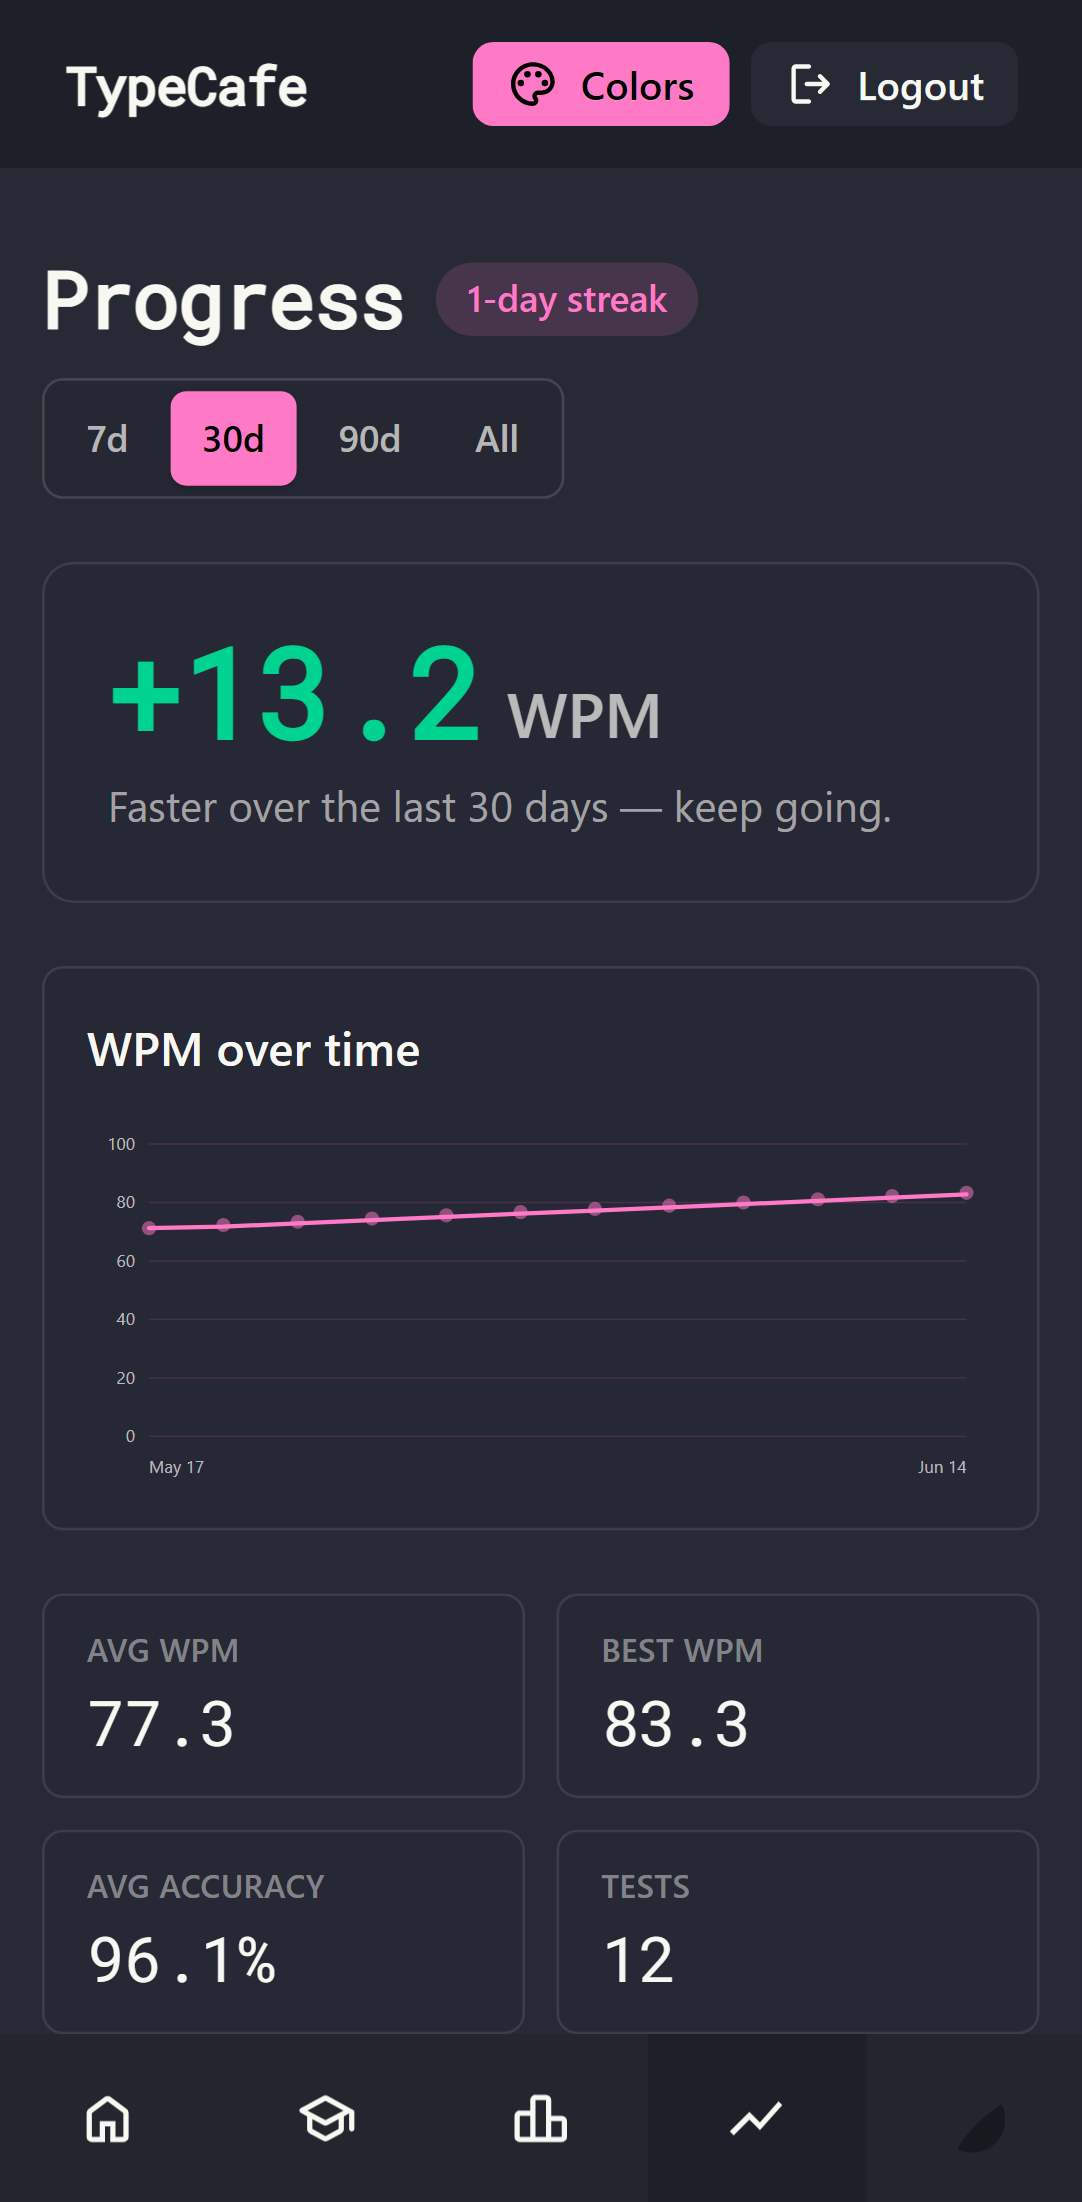
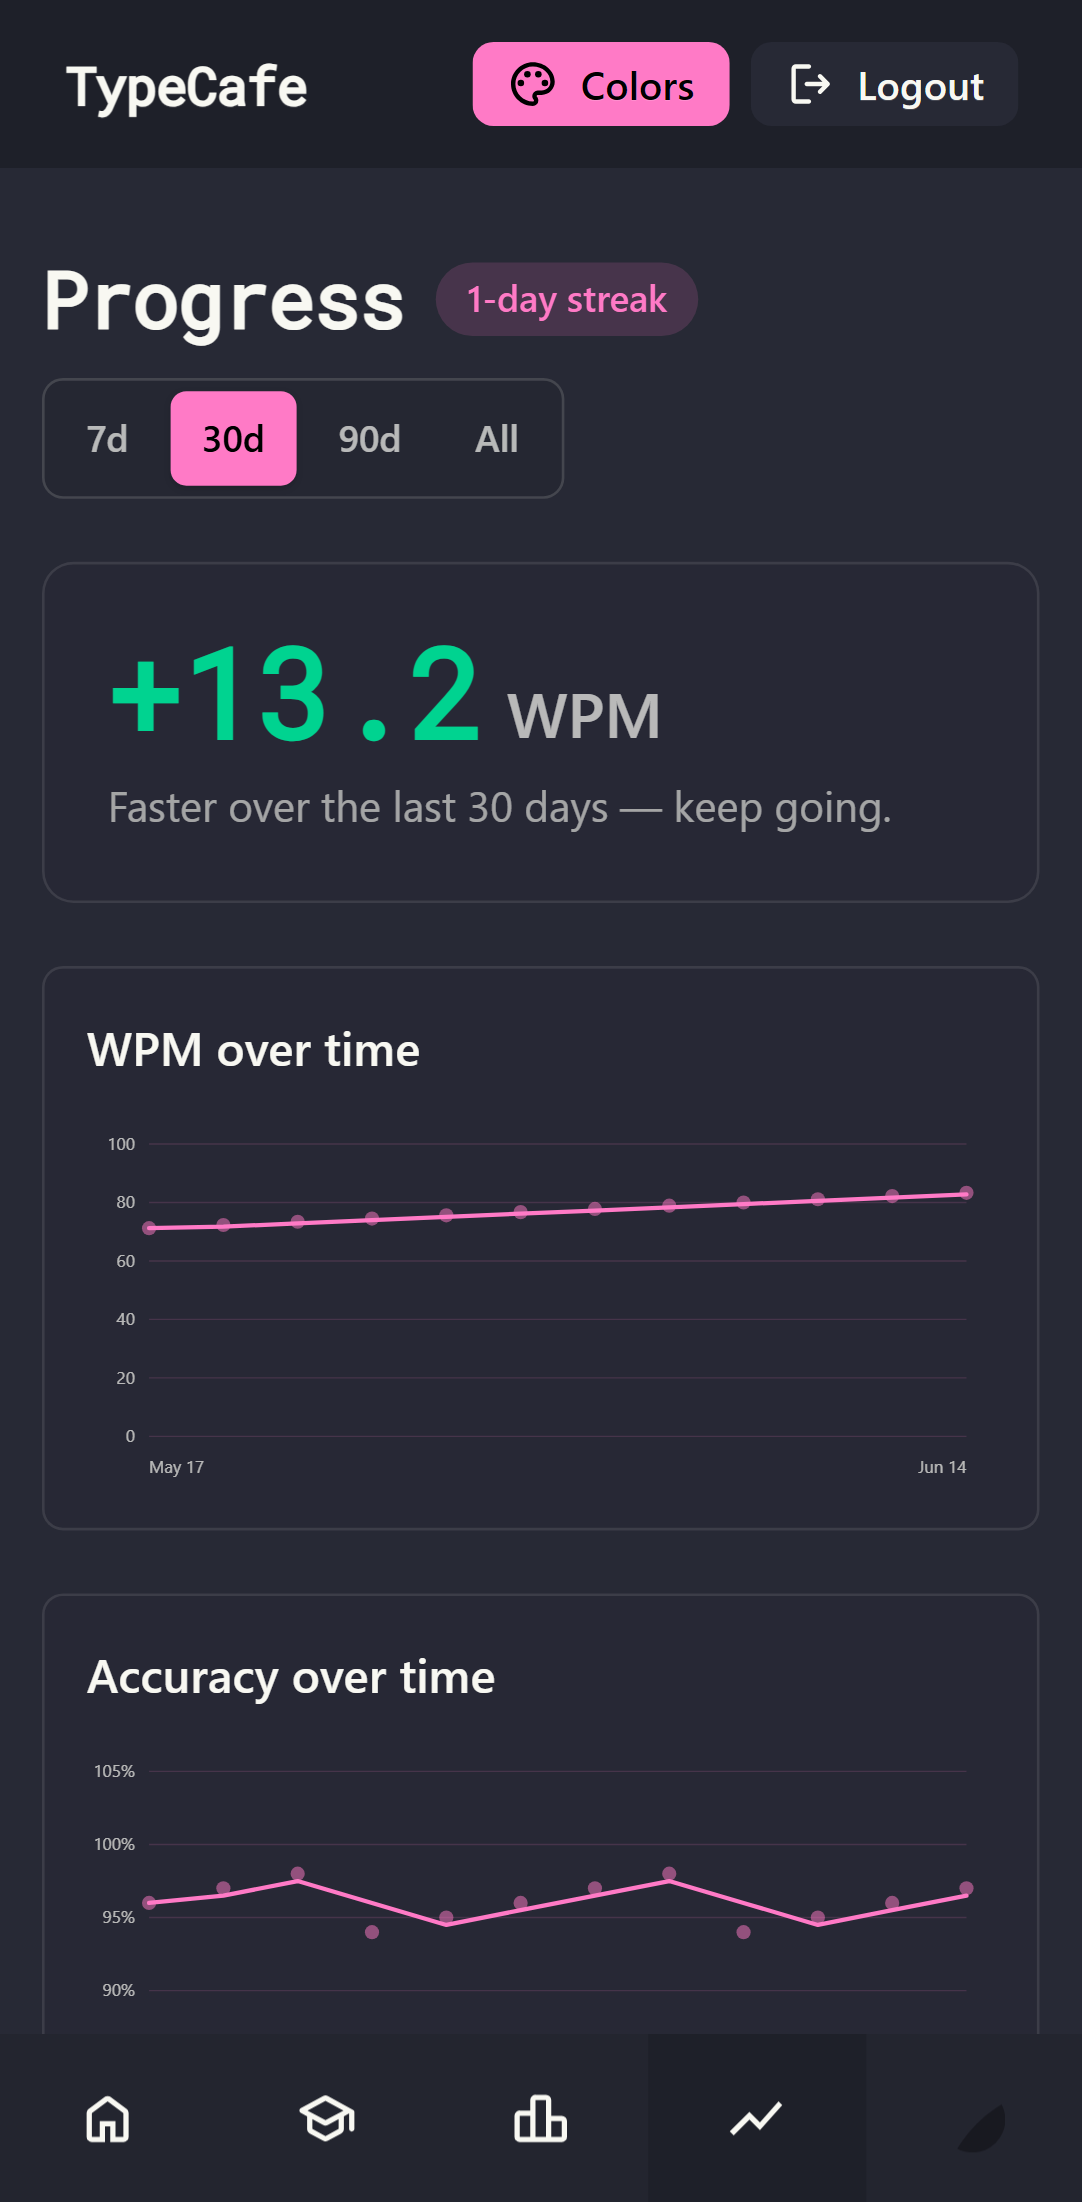
feat(progress): add records timeline and accuracy trend (phase-3 §3.1)
- personalRecords in src/lib/progress.ts (4 unit tests) — PB milestones as dated
  events, "first 80+ WPM" when a PB crosses a round number else a plain best.
  Rendered as a newest-first Records list on /progress.
- TrendChart generalized to plot any series with a "zero" (WPM) or "fit"
  (accuracy, zoomed to the data range, capped at 100%) baseline. The page now
  shows both a WPM and an Accuracy trend.

ponytail: fit baseline uses a fixed 5-unit tick (only accuracy uses it).

Verified: vitest 151 passed; tsc clean; progress e2e 5 passed.

diff --git a/src/components/progress/TrendChart.tsx b/src/components/progress/TrendChart.tsx
@@ -2,14 +2,19 @@ import { useId, useMemo } from "react"
 import type { TrendPoint } from "~/lib/progress"
 
 interface TrendChartProps {
+    // X source — only `t` is read (createdAt ms); aligned 1:1 with values/rolling.
     points: TrendPoint[]
-    // Rolling-average line aligned 1:1 with `points` (from trendSeries).
-    rollingWpm: number[]
-    // Accessible/visible title for the chart.
+    values: number[]
+    // Rolling-average line aligned 1:1 with `points`.
+    rolling: number[]
     title: string
+    // "zero" anchors the y-axis at 0 (WPM); "fit" zooms to the data range
+    // (accuracy, which clusters near the top and would look flat from 0).
+    baseline?: "zero" | "fit"
+    valueSuffix?: string
 }
 
-// Pick a "nice" y-axis tick interval so the gridlines land on round WPM values.
+// Pick a "nice" y-axis tick interval so the gridlines land on round values.
 function chooseTickInterval(maxValue: number): number {
     if (maxValue <= 50) return 10
     if (maxValue <= 120) return 20
@@ -21,12 +26,13 @@ function formatDate(t: number): string {
     return new Date(t).toLocaleDateString(undefined, { month: "short", day: "numeric" })
 }
 
-// Per-test WPM scatter with a rolling-average line over it — the chart that
-// proves "am I getting faster?" (Phase 3 §3.1.2). Pure presentation over the
-// payload from src/lib/progress.ts; renders sanely for 1, 10, or 1,000 points.
+// Per-test scatter with a rolling-average line — the chart that proves "am I
+// getting faster?" (§3.1.2). Pure presentation; renders for 1, 10, or 1,000 points.
 export function TrendChart(props: TrendChartProps) {
     const titleId = useId()
     const descId = useId()
+    const baseline = props.baseline ?? "zero"
+    const suffix = props.valueSuffix ?? ""
 
     const layout = useMemo(() => {
         const width = 640
@@ -35,14 +41,18 @@ export function TrendChart(props: TrendChartProps) {
         const chartWidth = width - padding.left - padding.right
         const chartHeight = height - padding.top - padding.bottom
 
-        const wpms = props.points.map((p) => p.wpm)
-        const maxValue = Math.max(...wpms, ...props.rollingWpm, 40)
-        const tick = chooseTickInterval(maxValue)
-        const maxY = Math.ceil(maxValue / tick) * tick
-        const yTicks = Array.from({ length: Math.floor(maxY / tick) + 1 }, (_, i) => i * tick)
+        const all = [...props.values, ...props.rolling]
+        const dataMax = Math.max(...all, baseline === "zero" ? 40 : -Infinity)
+        const dataMin = Math.min(...all, Infinity)
 
-        // X by real time when the points span an interval; a single point (or an
-        // all-same-instant burst) centres instead of dividing by zero.
+        // ponytail: fit uses a fixed tick of 5 — only accuracy (a %) uses it; widen
+        // if a non-percentage fit series ever needs it.
+        const tick = baseline === "zero" ? chooseTickInterval(dataMax) : 5
+        const minY = baseline === "zero" ? 0 : Math.max(0, Math.floor((dataMin - tick) / tick) * tick)
+        const rawMaxY = Math.ceil((dataMax + (baseline === "zero" ? 0 : tick)) / tick) * tick
+        const maxY = suffix === "%" ? Math.min(rawMaxY, 100) : rawMaxY // a percentage can't exceed 100
+        const yTicks = Array.from({ length: Math.floor((maxY - minY) / tick) + 1 }, (_, i) => minY + i * tick)
+
         const minT = props.points.length > 0 ? props.points[0]!.t : 0
         const maxT = props.points.length > 0 ? props.points[props.points.length - 1]!.t : 0
         const tSpan = maxT - minT
@@ -51,20 +61,11 @@ export function TrendChart(props: TrendChartProps) {
             if (tSpan <= 0) return padding.left + (index / (props.points.length - 1)) * chartWidth
             return padding.left + ((point.t - minT) / tSpan) * chartWidth
         }
-        const yFor = (value: number) => padding.top + chartHeight - (value / maxY) * chartHeight
+        const yFor = (value: number) => padding.top + chartHeight - ((value - minY) / (maxY - minY)) * chartHeight
 
-        const scatter = props.points.map((point, index) => ({
-            x: xFor(point, index),
-            y: yFor(point.wpm),
-            wpm: point.wpm,
-        }))
-        const linePoints = props.points.map((point, index) => ({
-            x: xFor(point, index),
-            y: yFor(props.rollingWpm[index] ?? point.wpm),
-        }))
-        const linePath = linePoints
-            .map((p, i) => `${i === 0 ? "M" : "L"} ${p.x.toFixed(1)} ${p.y.toFixed(1)}`)
-            .join(" ")
+        const scatter = props.points.map((point, index) => ({ x: xFor(point, index), y: yFor(props.values[index] ?? 0) }))
+        const linePoints = props.points.map((point, index) => ({ x: xFor(point, index), y: yFor(props.rolling[index] ?? props.values[index] ?? 0) }))
+        const linePath = linePoints.map((p, i) => `${i === 0 ? "M" : "L"} ${p.x.toFixed(1)} ${p.y.toFixed(1)}`).join(" ")
 
         const xLabels = props.points.length === 1
             ? [{ x: padding.left + chartWidth / 2, label: formatDate(minT) }]
@@ -73,10 +74,11 @@ export function TrendChart(props: TrendChartProps) {
                 { x: padding.left + chartWidth, label: formatDate(maxT) },
             ]
 
-        return { width, height, padding, chartWidth, chartHeight, maxY, yTicks, scatter, linePath, xLabels, minT, maxT }
-    }, [props.points, props.rollingWpm])
+        return { width, height, padding, chartWidth, chartHeight, minY, maxY, yTicks, scatter, linePath, xLabels }
+    }, [props.points, props.values, props.rolling, baseline, suffix])
 
     const pointRadius = props.points.length > 120 ? 2 : props.points.length > 40 ? 3 : 5
+    const yFor = (value: number) => layout.padding.top + layout.chartHeight - ((value - layout.minY) / (layout.maxY - layout.minY)) * layout.chartHeight
 
     return (
         <div className="rounded-lg border border-base-content/10 bg-base-100/45 p-4">
@@ -89,14 +91,14 @@ export function TrendChart(props: TrendChartProps) {
                 data-testid="trend-chart"
             >
                 <desc id={descId}>
-                    WPM trend over {props.points.length} {props.points.length === 1 ? "test" : "tests"}.
+                    {props.title} over {props.points.length} {props.points.length === 1 ? "test" : "tests"}.
                 </desc>
                 {layout.yTicks.map((value) => {
-                    const y = layout.padding.top + layout.chartHeight - (value / layout.maxY) * layout.chartHeight
+                    const y = yFor(value)
                     return (
                         <g key={value}>
                             <line x1={layout.padding.left} x2={layout.padding.left + layout.chartWidth} y1={y} y2={y} stroke="currentColor" opacity="0.14" />
-                            <text x={layout.padding.left - 10} y={y + 4} textAnchor="end" className="fill-base-content text-xs" opacity="0.7">{value}</text>
+                            <text x={layout.padding.left - 10} y={y + 4} textAnchor="end" className="fill-base-content text-xs" opacity="0.7">{value}{suffix}</text>
                         </g>
                     )
                 })}

diff --git a/src/lib/progress.ts b/src/lib/progress.ts
@@ -295,6 +295,44 @@ export function dailyRollups(records: ProgressRecord[], utcOffsetMinutes = 0): D
         .sort((a, b) => (a.day < b.day ? -1 : a.day > b.day ? 1 : 0))
 }
 
+// ---------------------------------------------------------------------------
+// Records timeline — personal bests as dated events (§3.1.6)
+// ---------------------------------------------------------------------------
+
+// Round WPM milestones worth calling out as "first 80+ WPM" events.
+export const RECORD_THRESHOLDS = [40, 50, 60, 70, 80, 90, 100, 110, 120, 130, 140, 150]
+
+export interface RecordEvent {
+    t: number // epoch ms of the test that set the record
+    wpm: number
+    // "threshold" when this PB also crossed a new round number (the braggier
+    // framing); "best" otherwise.
+    kind: "best" | "threshold"
+    threshold?: number
+}
+
+// Personal-best milestones over the history, newest first. Walks oldest→newest
+// emitting one event per test that beats every test before it; if that test also
+// crossed a new round-number threshold, the event is framed as "first N+ WPM".
+export function personalRecords(records: ProgressRecord[], thresholds: number[] = RECORD_THRESHOLDS): RecordEvent[] {
+    const sorted = [...records].sort((a, b) => a.createdAt.getTime() - b.createdAt.getTime())
+    const events: RecordEvent[] = []
+    let max = -Infinity
+    for (const record of sorted) {
+        if (record.wpm <= max) continue
+        const crossed = thresholds.filter((th) => th > max && th <= record.wpm)
+        const highest = crossed.length > 0 ? Math.max(...crossed) : undefined
+        events.push({
+            t: record.createdAt.getTime(),
+            wpm: record.wpm,
+            kind: highest !== undefined ? "threshold" : "best",
+            threshold: highest,
+        })
+        max = record.wpm
+    }
+    return events.reverse()
+}
+
 // Consecutive-day practice streak ending today (Phase 3 §3.2), computed on read
 // from the records — no jobs, no stored counter. Today not yet practised doesn't
 // break the streak as long as yesterday was (the day isn't over).

diff --git a/src/lib/progress.test.ts b/src/lib/progress.test.ts
@@ -12,6 +12,7 @@ import {
     filterByPeriod,
     headlineDelta,
     periodStart,
+    personalRecords,
     rollingAverage,
     trendSeries,
     type ProgressRecord,
@@ -272,6 +273,35 @@ describe("dailyRollups", () => {
 
     it("returns an empty array for no records", () => {
         expect(dailyRollups([])).toEqual([])
+    })
+})
+
+describe("personalRecords", () => {
+    it("emits one event per new personal best, newest first", () => {
+        // 60 (PB), 58 (no), 72 (PB), 70 (no), 85 (PB)
+        const recs = [rec(40, 60), rec(35, 58), rec(30, 72), rec(20, 70), rec(5, 85)]
+        const events = personalRecords(recs)
+        expect(events.map((e) => e.wpm)).toEqual([85, 72, 60])
+        // Newest first.
+        expect(events[0]!.t).toBeGreaterThan(events[1]!.t)
+    })
+
+    it("frames a PB that crosses a round number as a threshold event", () => {
+        const events = personalRecords([rec(10, 62), rec(5, 81)])
+        expect(events[0]).toMatchObject({ wpm: 81, kind: "threshold", threshold: 80 })
+        // First test (62) crossed 40/50/60 → highest 60.
+        expect(events[1]).toMatchObject({ wpm: 62, kind: "threshold", threshold: 60 })
+    })
+
+    it("labels a PB that crosses no new threshold as a plain best", () => {
+        // 82 then 87: 87 beats 82 but crosses no new round number (80 already done).
+        const events = personalRecords([rec(10, 82), rec(5, 87)])
+        expect(events[0]).toMatchObject({ wpm: 87, kind: "best" })
+        expect(events[0]!.threshold).toBeUndefined()
+    })
+
+    it("returns an empty list for no records", () => {
+        expect(personalRecords([])).toEqual([])
     })
 })
 

diff --git a/src/pages/progress.tsx b/src/pages/progress.tsx
@@ -13,6 +13,8 @@ import {
     currentStreak,
     filterByPeriod,
     headlineDelta,
+    personalRecords,
+    rollingAverage,
     trendSeries,
     type ProgressPeriod,
     type ProgressRecord,
@@ -49,6 +51,11 @@ const ProgressDashboard = (props: { records: ProgressRecord[] }) => {
     const delta = useMemo(() => headlineDelta(props.records, period, now), [props.records, period, now]);
     const series = useMemo(() => trendSeries(props.records, period, now), [props.records, period, now]);
     const inPeriod = useMemo(() => filterByPeriod(props.records, period, now), [props.records, period, now]);
+    const records = useMemo(() => personalRecords(props.records), [props.records]);
+    const accuracy = useMemo(() => ({
+        values: series.points.map((p) => p.accuracy),
+        rolling: rollingAverage(series.points.map((p) => p.accuracy), series.window),
+    }), [series]);
 
     const hasData = series.points.length > 0;
 
@@ -119,7 +126,8 @@ const ProgressDashboard = (props: { records: ProgressRecord[] }) => {
 
             {hasData && (
                 <>
-                    <TrendChart title="WPM over time" points={series.points} rollingWpm={series.rollingWpm} />
+                    <TrendChart title="WPM over time" points={series.points} values={series.points.map((p) => p.wpm)} rolling={series.rollingWpm} baseline="zero" />
+                    <TrendChart title="Accuracy over time" points={series.points} values={accuracy.values} rolling={accuracy.rolling} baseline="fit" valueSuffix="%" />
 
                     <div className="grid grid-cols-2 gap-3 sm:grid-cols-4">
                         <StatCell label="Avg WPM" value={averageWpm(inPeriod).toFixed(1)} />
@@ -128,6 +136,22 @@ const ProgressDashboard = (props: { records: ProgressRecord[] }) => {
                         <StatCell label="Tests" value={String(inPeriod.length)} />
                     </div>
                 </>
+            )}
+
+            {records.length > 0 && (
+                <div data-testid="records-timeline" className="rounded-lg border border-base-content/10 bg-base-100/45 p-4">
+                    <div className="mb-3 text-lg font-semibold text-base-content">Records</div>
+                    <ul className="space-y-2">
+                        {records.slice(0, 8).map((event) => (
+                            <li key={event.t} className="flex items-center justify-between border-b border-base-content/10 pb-2 text-sm last:border-b-0 last:pb-0">
+                                <span className="text-base-content/60">{new Date(event.t).toLocaleDateString(undefined, { year: "numeric", month: "short", day: "numeric" })}</span>
+                                <span className="font-medium text-base-content">
+                                    {event.kind === "threshold" ? `First ${event.threshold}+ WPM test` : `${event.wpm.toFixed(1)} WPM personal best`}
+                                </span>
+                            </li>
+                        ))}
+                    </ul>
+                </div>
             )}
         </div>
     );

diff --git a/tests/e2e/progress.spec.ts b/tests/e2e/progress.spec.ts
@@ -19,7 +19,7 @@ test.describe("progress dashboard", () => {
     await expect(headline.getByText("WPM").first()).toBeVisible();
 
     // The trend chart renders over the same data.
-    await expect(page.getByTestId("trend-chart")).toBeVisible();
+    await expect(page.getByTestId("trend-chart").first()).toBeVisible();
 
     // The practice streak chip shows (the mocked history reaches today).
     await expect(page.getByTestId("streak-chip")).toBeVisible();
@@ -27,6 +27,10 @@ test.describe("progress dashboard", () => {
     // Stat cells summarise the selected period.
     await expect(page.getByText("Avg WPM")).toBeVisible();
     await expect(page.getByText("Best WPM")).toBeVisible();
+
+    // Accuracy trend (second chart) and the records timeline render too.
+    await expect(page.getByTestId("trend-chart")).toHaveCount(2);
+    await expect(page.getByTestId("records-timeline")).toBeVisible();
   });
 
   test("the period switcher rescopes the dashboard", async ({ page }) => {
@@ -39,7 +43,7 @@ test.describe("progress dashboard", () => {
 
     await switcher.getByRole("button", { name: "All" }).click();
     await expect(switcher.getByRole("button", { name: "All" })).toHaveAttribute("aria-pressed", "true");
-    await expect(page.getByTestId("trend-chart")).toBeVisible();
+    await expect(page.getByTestId("trend-chart").first()).toBeVisible();
 
     await switcher.getByRole("button", { name: "7d" }).click();
     await expect(switcher.getByRole("button", { name: "7d" })).toHaveAttribute("aria-pressed", "true");
@@ -75,7 +79,7 @@ test.describe("progress dashboard", () => {
     await gotoProgress(page);
 
     await expect(page.getByTestId("guest-keep-banner")).toBeVisible();
-    await expect(page.getByTestId("trend-chart")).toBeVisible();
+    await expect(page.getByTestId("trend-chart").first()).toBeVisible();
     await expect(page.getByTestId("progress-signed-out")).toHaveCount(0);
   });
 });